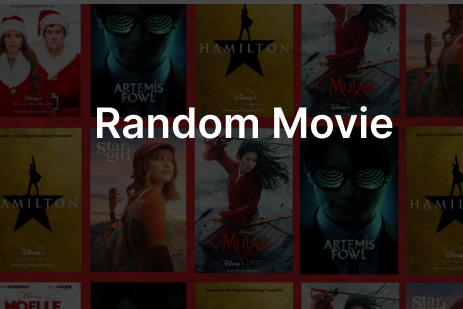
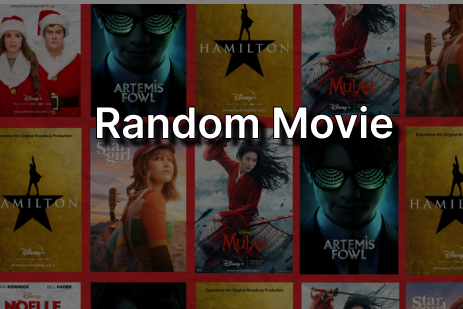
main cards customize

diff --git a/components/Main/Main.styledG.js b/components/Main/Main.styledG.js
@@ -3,34 +3,38 @@ import { createGlobalStyle } from "styled-components";
 const styled = { createGlobalStyle };
 
 export const MainGlobalStyles = styled.createGlobalStyle`
-  .card-projects {
+  .card-project {
     width: 350px !important;
     justify-content: center;
+    height: 100% !important;
+  }
 
-    div {
-      margin: 0 auto;
-    }
+  .card-project-div3 img {
+    width: 230px !important;
+    height: auto !important;
+  }
 
-    div div div {
-      :nth-child(1) {
-        /* border: 2px solid red; */
-        /* margin-left: 0; */
-        font-size: calc(19px + (21 - 19) * ((100vw - 300px) / (1600 - 300)));
-        font-weight: 600;
-        word-spacing: 1.1px;
-      }
-      :nth-child(2) {
-        /* border: 2px solid red; */
-        font-size: 17px !important;
-        color: white !important;
-        padding: 10px;
-      }
-      :nth-child(3) {
-        border: 2px solid violet;
-        display: flex;
-        flex-wrap: wrap;
-        flex-direction: row-reverse;
-      }
+  .card-project-div5 {
+    /* border: 2px solid red; */
+    /* margin-left: 0; */
+    font-size: calc(19px + (21 - 19) * ((100vw - 300px) / (1600 - 300)));
+    font-weight: 600;
+    word-spacing: 1.1px;
+    border: 2px solid red;
+  }
+  .card-project-div6 {
+    /* border: 2px solid red; */
+    font-size: 17px !important;
+    color: white !important;
+    padding: 10px;
+  }
+  .card-project-div7 {
+    display: flex;
+    flex-wrap: wrap;
+    flex-direction: row-reverse;
+    span {
+      padding: 5px;
+      margin: 1px !important;
     }
   }
 

diff --git a/components/Main/Main.jsx b/components/Main/Main.jsx
@@ -1,11 +1,22 @@
-import React from "react";
+import React, { useEffect } from "react";
 import { TaggedContentCard } from "react-ui-cards";
-import { StyledContainer } from "../../styles/Container.styled";
-import * as St from "./Main.styled";
-import { MainGlobalStyles } from "./Main.styledG";
-import { CARDS_INFO } from "../../data/localData";
+import { StyledContainer } from "styles/Container.styled";
+import * as St from "components/Main/Main.styled";
+import { MainGlobalStyles } from "components/Main/Main.styledG";
+import { CARDS_INFO } from "data/localData";
+
+const useSetCardsClassNames = () => {
+  useEffect(() => {
+    const cardDivs = document.querySelectorAll(".card-project div");
+    console.log(cardDivs);
+    cardDivs.forEach((div, i) => {
+      div.classList.add(`card-project-div${i}`);
+    });
+  }, []);
+};
 
 const Main = () => {
+  useSetCardsClassNames();
   return (
     <St.Main>
       <StyledContainer>
@@ -19,7 +30,7 @@ const Main = () => {
                   description={project.description}
                   tags={project.tags}
                   thumbnail={project.thumbnail}
-                  className={"card-projects"}
+                  className={"card-project"}
                 />
               </St.CardWrapper>
             );

diff --git a/data/localData.js b/data/localData.js
@@ -7,17 +7,28 @@ export const CARDS_INFO = [
     thumbnail: "/real-idea.png",
   },
   {
-    title: "Real Idea2",
-    description:
-      "Landing Page created after 300hours of learning web development.",
-    tags: ["Html", "Css", "Bem", "Stylelint", "Sccs"],
-    thumbnail: "/real-idea.png",
+    title: "Encryptor",
+    description: "Mini project based on a simple encrypt algorythm",
+    tags: ["Html", "Css", "JavaScript"],
+    thumbnail: "/encryptor.png",
   },
   {
-    title: "Real Idea3",
-    description:
-      "Landing Page created after 300hours of learning web development.",
-    tags: ["Html", "Css", "Bem", "Stylelint", "Sccs"],
-    thumbnail: "/real-idea.png",
+    title: "Random Movie",
+    description: "React app for searching a good random movie",
+    tags: [
+      "Html",
+      "Css",
+      "React",
+      "Typescript",
+      "Styled-Components",
+      "Firebase",
+    ],
+    thumbnail: "/random-movie.png",
+  },
+  {
+    title: "Warehouse App",
+    description: "React Native app for warehouse with useful statistics",
+    tags: ["Html", "Css", "React Native", "Firebase"],
+    thumbnail: "/warehouse-app.png",
   },
 ];

diff --git a/components/Footer/Footer.jsx b/components/Footer/Footer.jsx
@@ -1,13 +1,39 @@
 import React from "react";
-import { StyledFooter } from "./Footer.styled";
+// import { StyledFooter } from "./Footer.styled";
+import styled from "styled-components";
+
+export const StyledFooter = styled.footer`
+  margin-left: 20px;
+  width: 20vw;
+
+  div:nth-child(1),
+  div:nth-child(2) {
+    padding: 3px;
+  }
+
+  div {
+    border: 1px solid red;
+  }
+`;
 
 const Footer = () => {
   return (
-    <StyledFooter>
-      <p>footer text</p>
-    </StyledFooter>
+    <>
+      <StyledFooter>
+        <div>
+          outer
+          <div>
+            a<div>1</div>
+            <div>2</div>
+          </div>
+          <div>
+            b<div>4</div>
+            <div>5</div>
+          </div>
+        </div>
+      </StyledFooter>
+    </>
   );
 };
 
 export default Footer;
- 

diff --git a/components/Navbar/Navbar.jsx b/components/Navbar/Navbar.jsx
@@ -1,23 +1,23 @@
 import React from "react";
 import { AiFillGithub } from "react-icons/ai";
-import { StyledNavbar } from "./Navbar.styled";
+import { StyledNavbar } from "components/Navbar/Navbar.styled";
 
 const Navbar = () => {
   return (
     <StyledNavbar>
       <div>
-        <li>A.P.</li> 
+        <li>A.P.</li>
       </div>
       <menu>
         <li>
           <a href="#">Projects</a>
         </li>
         <li>
-          <a href="#">Contact</a> 
+          <a href="#">Contact</a>
         </li>
         <li>
           <a href="https://github.com/Allex191" target={"_blank"}>
-            <AiFillGithub /> 
+            <AiFillGithub />
           </a>
         </li>
       </menu>

diff --git a/components/Hero/Hero.jsx b/components/Hero/Hero.jsx
@@ -6,7 +6,7 @@ import {
   StyledAvatarWrapper,
   StyledUserDescription,
   StyledApodParagraph,
-} from "./Hero.styled";
+} from "components/Hero/Hero.styled";
 
 const Hero = () => {
   return (
@@ -15,7 +15,7 @@ const Hero = () => {
         <Image objectFit="contain" layout="fill" src={"/me.png"} />
       </StyledAvatarWrapper>
       <StyledUserDescription>
-        Hello, my name is Alexei Petru and i am self-taught  frontend developer.
+        Hello, my name is Alexei Petru and i am self-taught frontend developer.
       </StyledUserDescription>
       <StyledApodDescription>
         <a href="#">

diff --git a/components/Header/Header.jsx b/components/Header/Header.jsx
@@ -1,10 +1,8 @@
-import React from "react";
 import { StyledContainer } from "../../styles/Container.styled";
 import Hero from "../Hero/Hero";
 import Navbar from "../Navbar/Navbar";
 import { StyledHeader } from "./Header.styled";
-import HeaderBackground from "./HeaderBackground";
-import { StyledMain } from "../Main/Main.styled";
+import HeaderBackground from "components/Header/HeaderBackground";
 
 const Header = () => {
   return (

diff --git a/components/Header/Header.styled.js b/components/Header/Header.styled.js
@@ -3,7 +3,7 @@ import {
   headerBackgroundColor,
   headerBackgroundFilter,
   maxDeviceHeight,
-} from "../../constants/constants";
+} from "constants/constants";
 headerBackgroundColor;
 
 export const StyledHeader = styled.header`

diff --git a/README.md b/README.md
@@ -3,4 +3,4 @@
 ### nextJs, styled-components, firebase,
 
 
-## Live Demo https://ap-portfolio-ten.vercel.app/
+## Starter demo https://ap-portfolio-ten.vercel.app/
